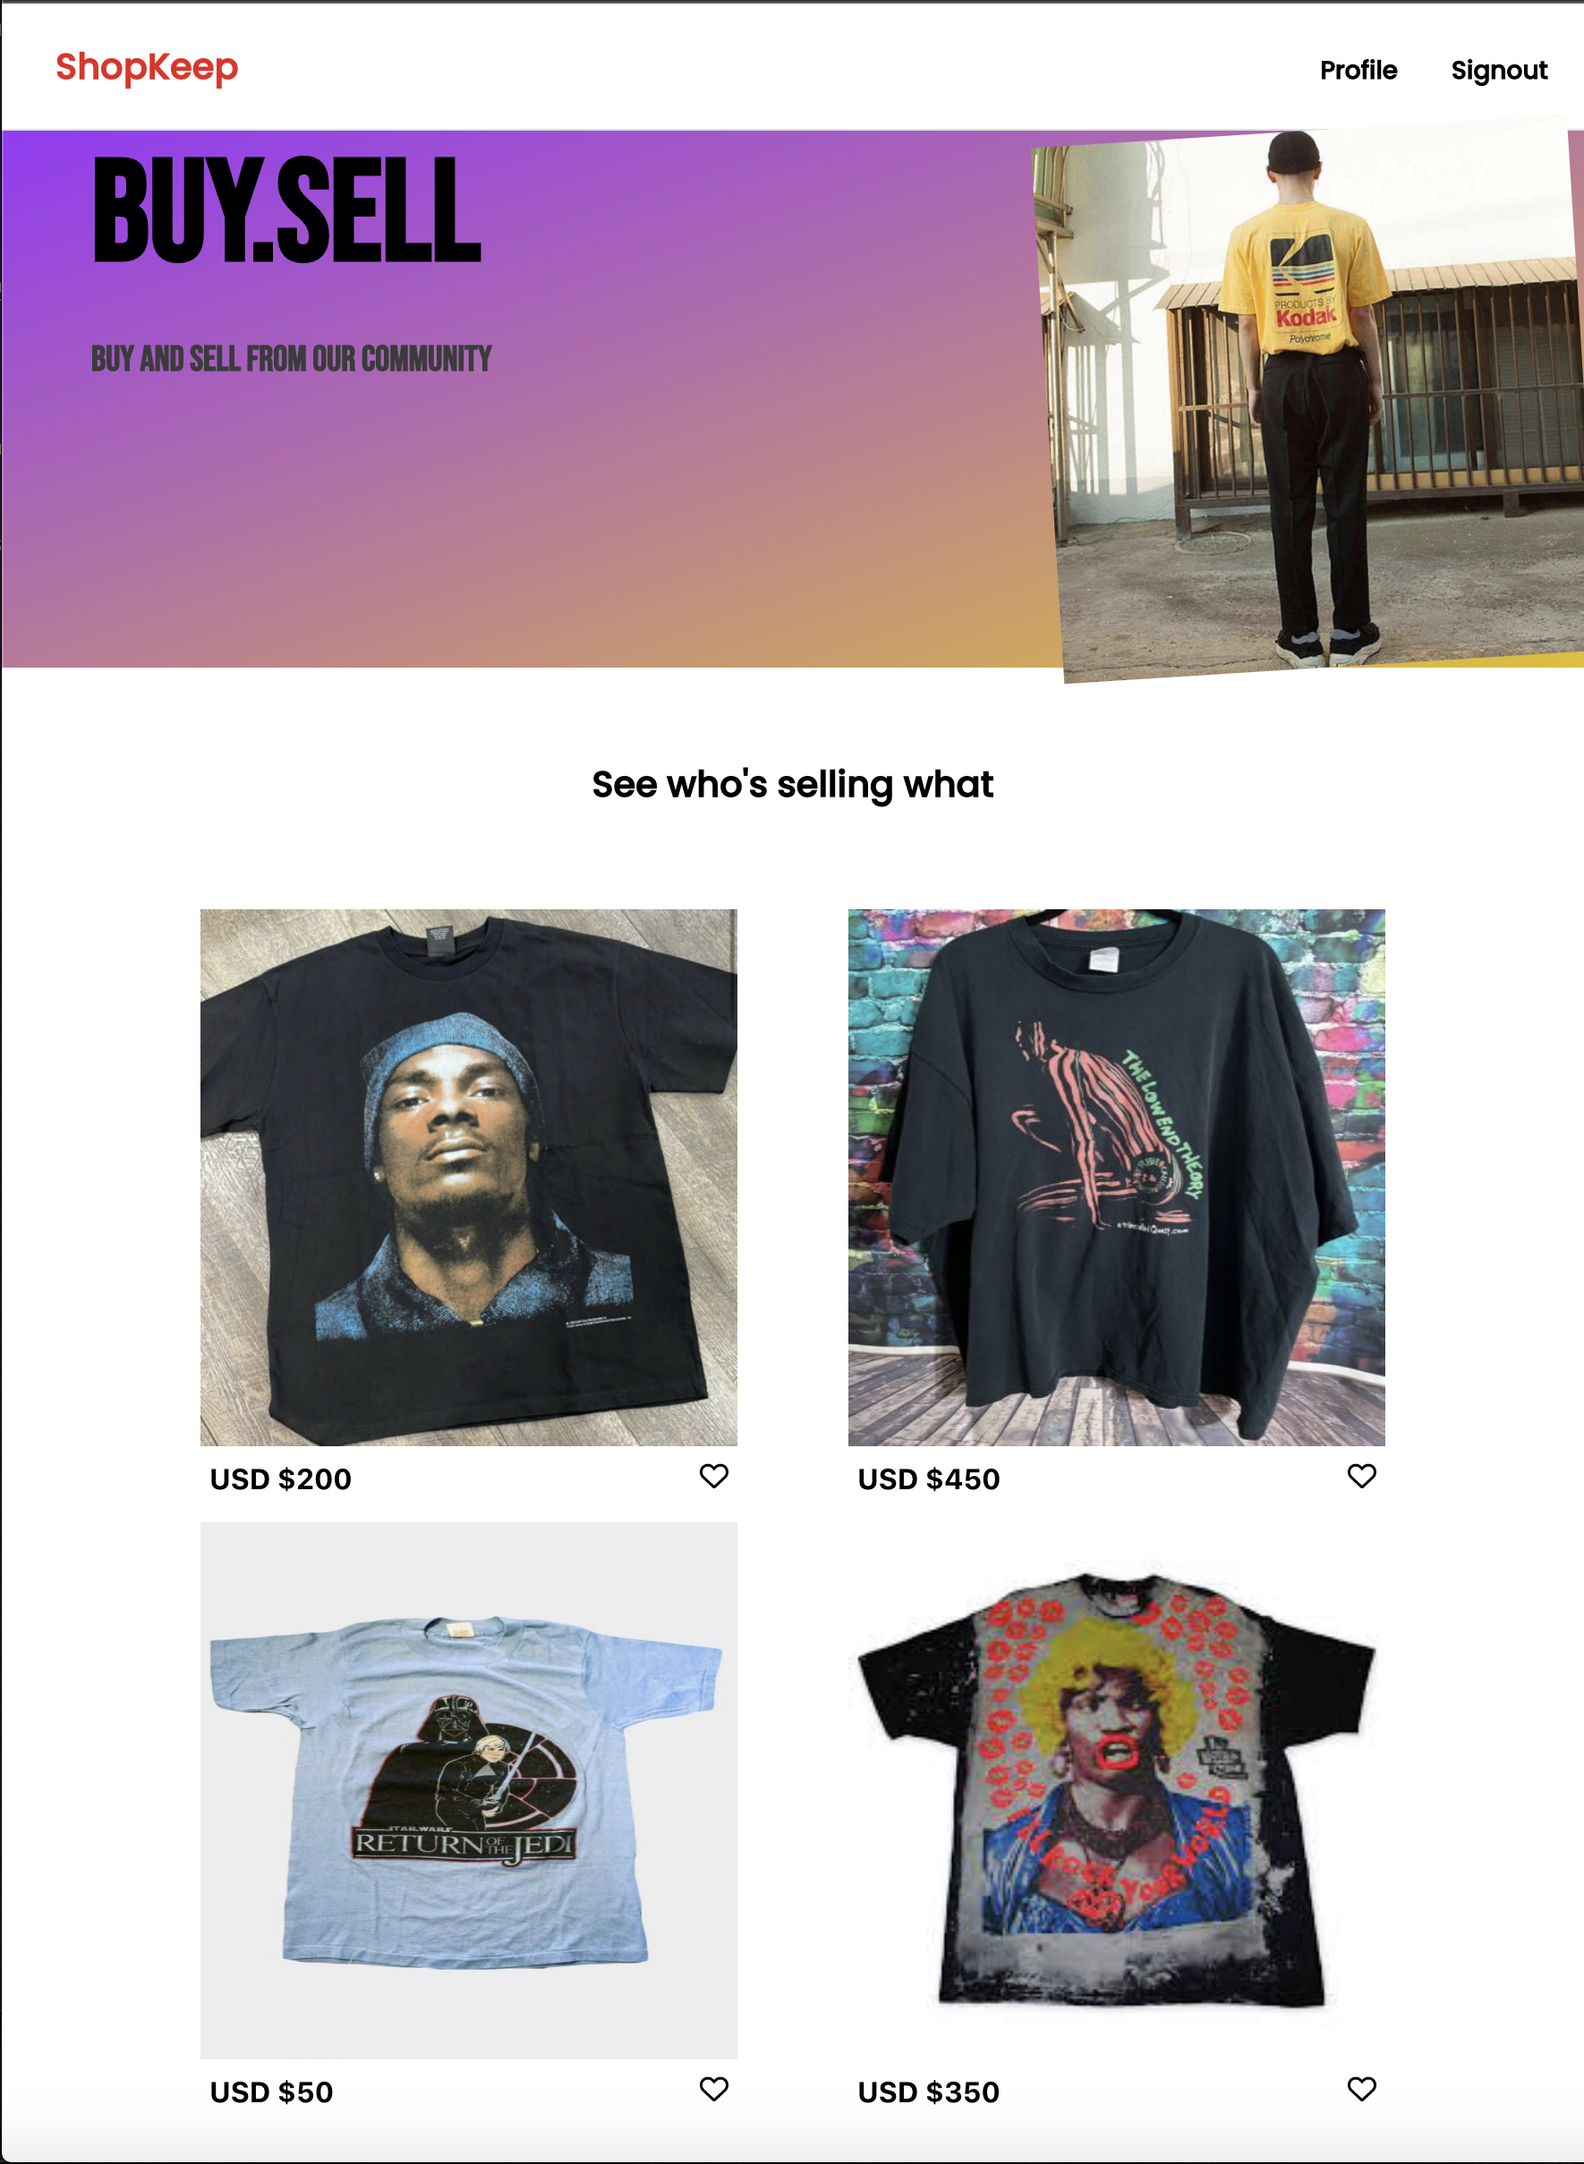
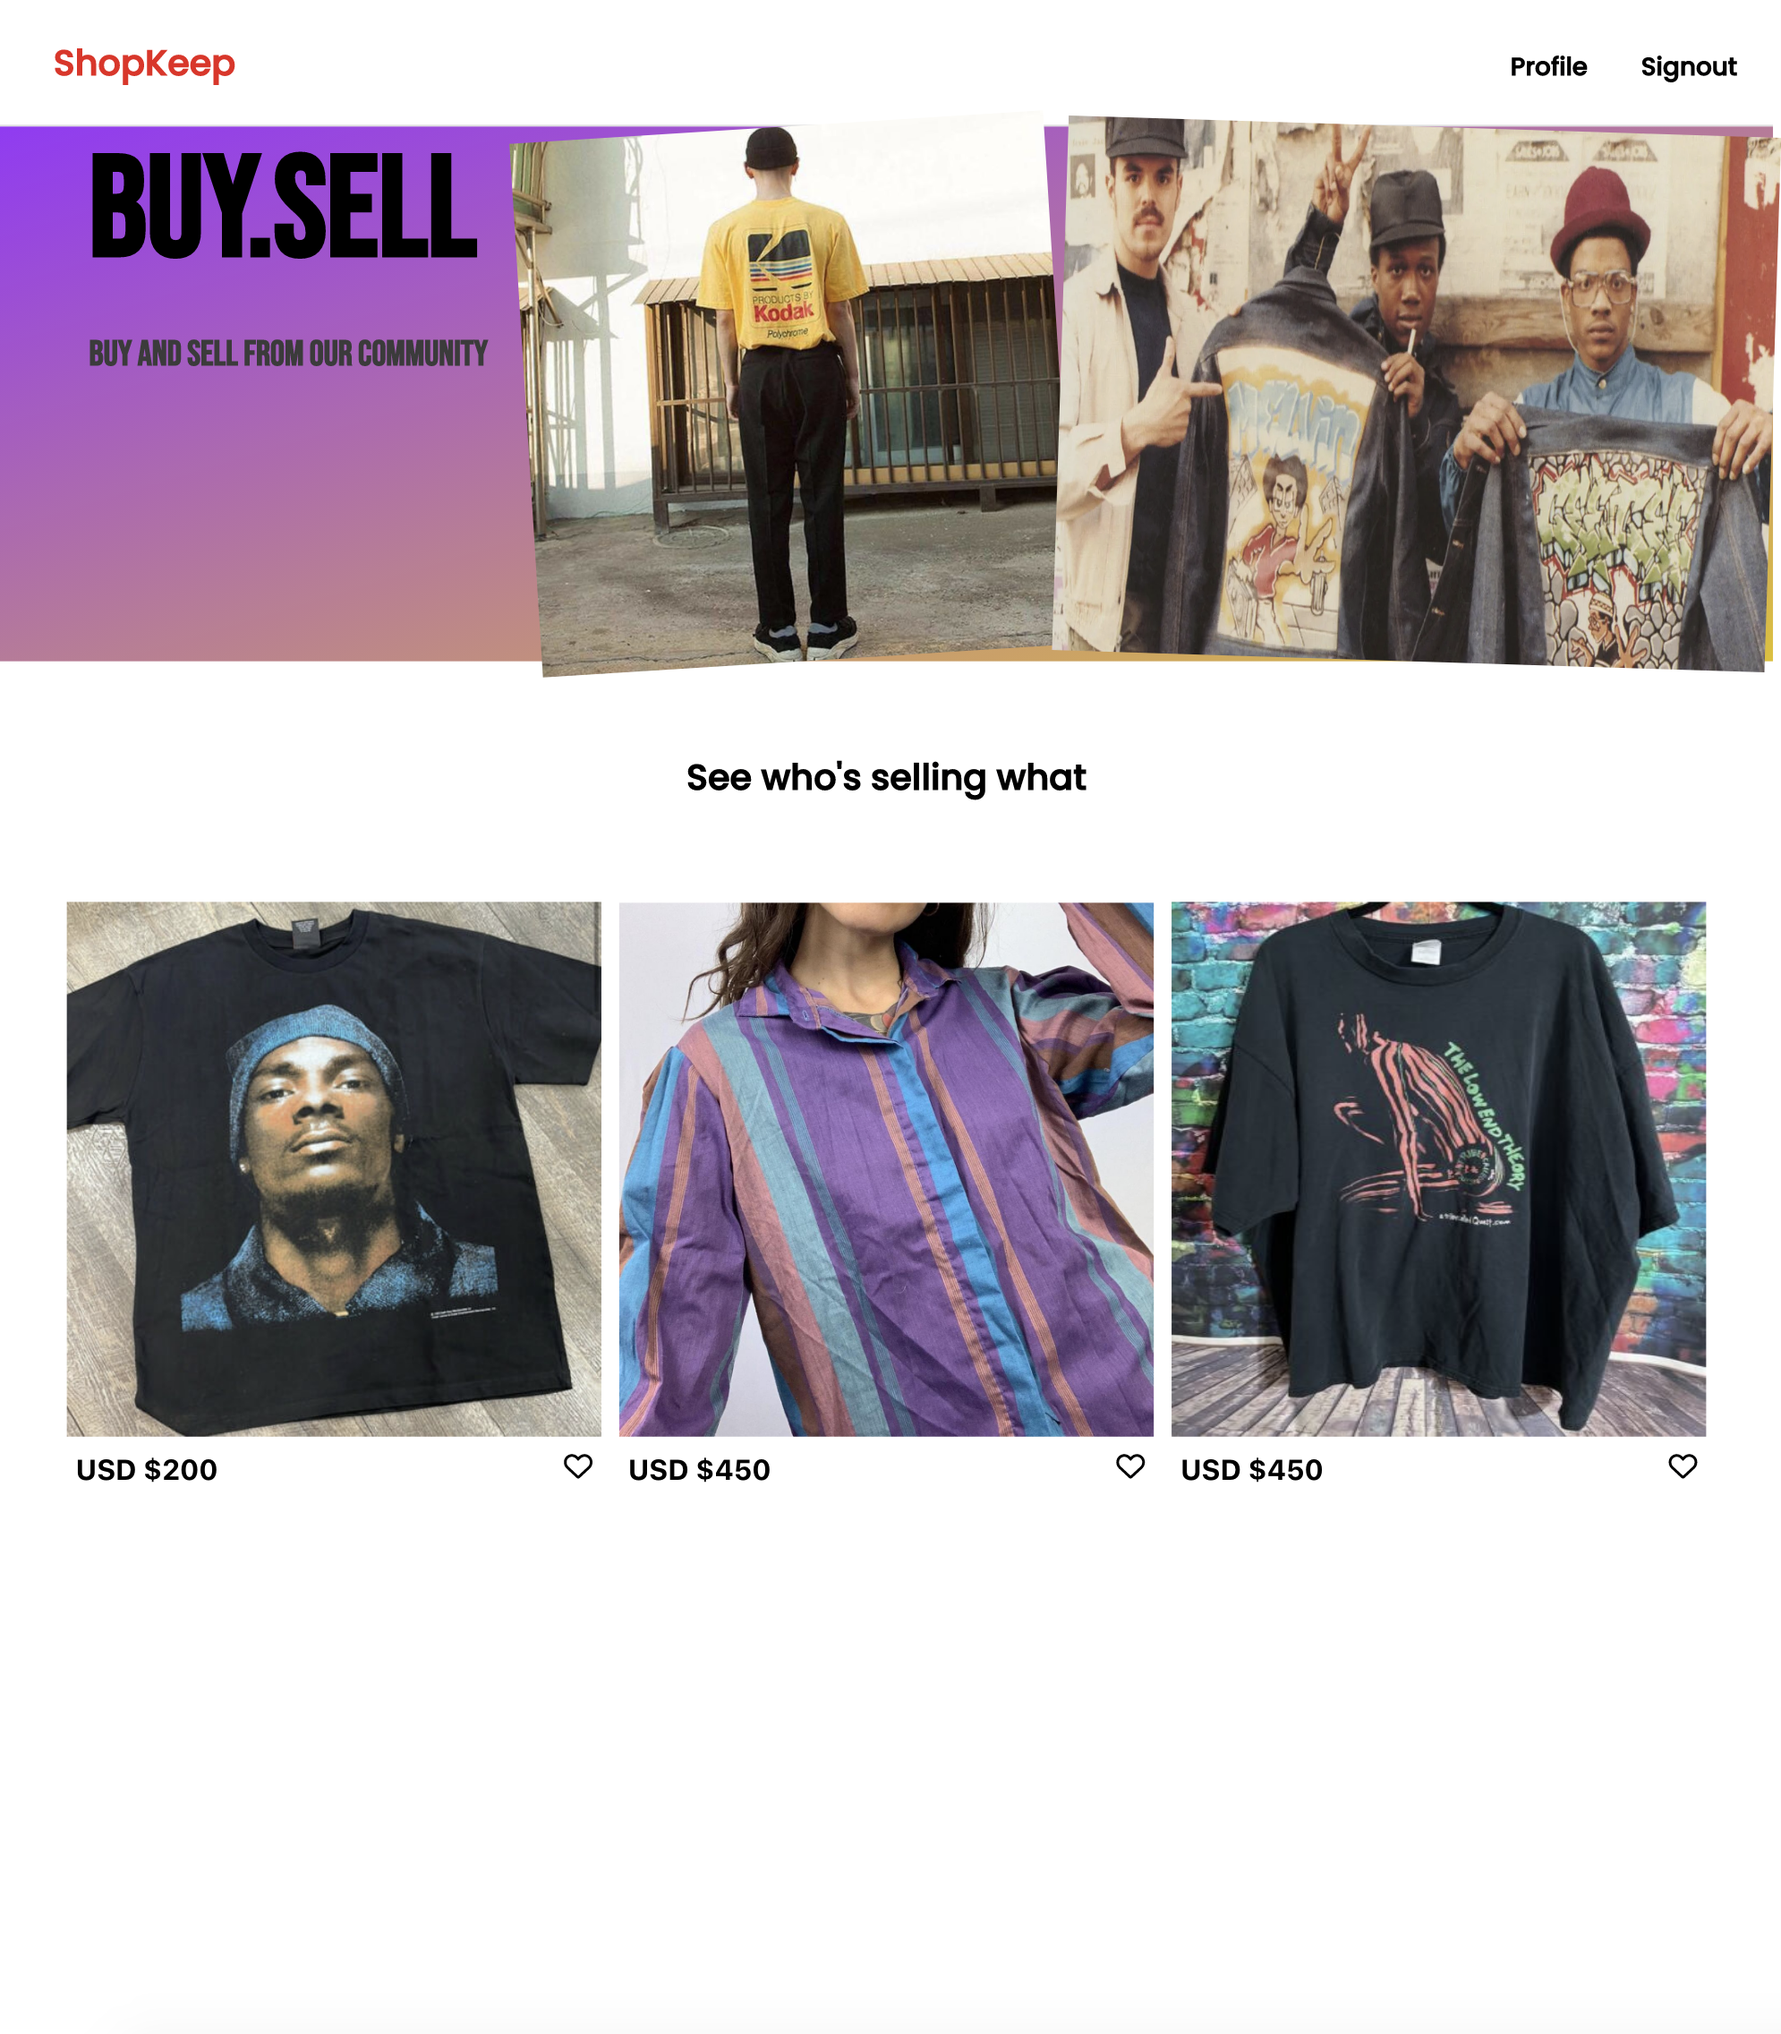
worked on animation on works component, fixed footer

diff --git a/src/components/works/worksDisplay/WorksDisplay.js b/src/components/works/worksDisplay/WorksDisplay.js
@@ -1,13 +1,30 @@
 import  Shopkeep from '../../../assets/images/shopkeep.png'
+import Discography from '../../../assets/images/discography.png'
 import './worksDisplay.css'
 
 export const WorksDisplay = () => {
   return (
     <div id='works-display-container'>
-      <img id='final-project-img' 
-        src={Shopkeep} 
-        loading='lazy'
-        alt='final project'/>
+      <div className='works'>
+        <div className='works-title'>
+          <span className='works-num fade-bottom'> 001.</span>
+          <span className='work-title fade-bottom'>DISCOGRAPHY</span>
+        </div>
+        <img id='final-project-img' 
+          src={Discography} 
+          loading='lazy'
+          alt='final project'/>
+      </div>
+      <div className='works'>
+        <div className='works-title'>
+          <span className='works-num fade-bottom'> 002.</span>
+          <span className='work-title fade-bottom'>SHOPKEEP</span>
+        </div>
+        <img id='final-project-img' 
+          src={Shopkeep} 
+          loading='lazy'
+          alt='final project'/>
+      </div>
     </div>
   )
 }

diff --git a/src/components/works/worksDisplay/worksDisplay.css b/src/components/works/worksDisplay/worksDisplay.css
@@ -1,14 +1,39 @@
+@import url('https://fonts.googleapis.com/css2?family=IBM+Plex+Mono:ital,wght@0,600;1,400&family=Poppins:wght@500&display=swap');
+
 #final-project-img {
-  width: 400px;
-  height: 570px;
+  width: 340px;
+  height: 370px;
 }
 #works-display-container {
-  transition-delay: 2s
+  transition-delay: 2s;
+  display: flex;
+  justify-content: center;
+  grid-gap: 20px;
+  flex-wrap: wrap;
 }
 #final-project-img {
   animation: scale 800ms ease forwards;
   animation-delay: .6s;
   visibility: hidden;
+}
+
+.works-num {
+  font-weight: 600;
+  font-family: 'IBM Plex Mono', monospace;
+  font-size: 12px;
+  margin-right: 10px;
+}
+.works {
+  display: grid;
+  grid-template-rows: .05fr 1fr;
+  height: 500px;
+}
+.works-title {
+  font-size: 14px;
+  text-align: left;
+  margin-bottom: auto;
+  display: grid;
+  grid-template-columns: .2fr 1fr;
 }
 @keyframes scale {
   0% {
@@ -16,7 +41,7 @@
     visibility: visible;
   }
   100% {
-    height: 570px;
+    height: 470px;
     visibility: visible;
   }
 }

diff --git a/src/components/footer/footer.css b/src/components/footer/footer.css
@@ -1,5 +1,5 @@
 #footer {
-  position: absolute;
+  position: fixed;
   left: 0;
   bottom: 0;
   right: 0;
